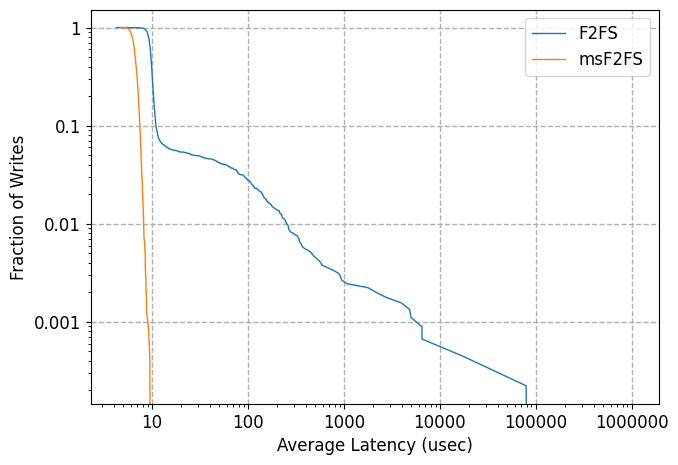
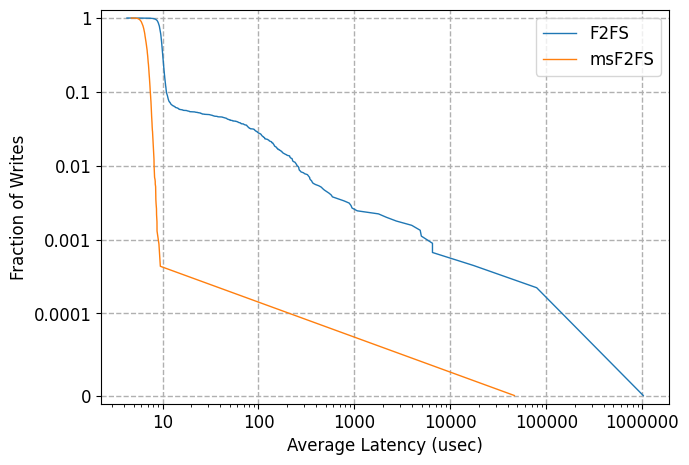
Fix reverse CDF latency figures

diff --git a/gc-concurrent/plot.py b/gc-concurrent/plot.py
@@ -1,5 +1,6 @@
 #!/usr/bin/env python3
 
+import matplotlib
 import matplotlib.pyplot as plt
 import numpy as np
 import matplotlib.ticker as ticker
@@ -362,15 +363,18 @@ def plot_reverse_cdf():
     ax.errorbar(x_f2fs, rcdf_f2fs, label="F2FS", fmt="-", linewidth=1)
     ax.errorbar(x_msf2fs, rcdf_msf2fs, label="msF2FS", fmt="-", linewidth=1)
     
+    plt.rcParams["figure.autolayout"] = True
     fig.tight_layout()
     ax.grid(which='major', linestyle='dashed', linewidth='1')
     ax.set_axisbelow(True)
-    plt.yscale("log")
+    # plt.yscale("log")
+    plt.yscale('symlog', linthresh=1e-4)
     plt.xscale("log")
-    ax.yaxis.set_major_formatter(ticker.FuncFormatter(lambda y,pos: ('{{:.{:1d}f}}'.format(int(np.maximum(-np.log10(y),0)))).format(y)))
+    ax.set_yticks([1, 0.1, 0.01, 0.001, 0.0001 , 0])
+    ax.set_yticklabels([1, 0.1, 0.01, 0.001, 0.0001, 0])
+    ax.set_ylim(-0.00001, 1.3)
+    # ax.yaxis.set_major_formatter(ticker.FuncFormatter(lambda y,pos: ('{{:.{:1d}f}}'.format(int(np.maximum(-np.log10(y),0)))).format(y)))
     ax.xaxis.set_major_formatter(ticker.FuncFormatter(lambda x,pos: ('{{:.{:1d}f}}'.format(int(np.maximum(-np.log10(x),0)))).format(x)))
-    # ax.set_ylim(0.000001, 1)
-    # ax.set_xlim(0.000001)
     ax.legend(loc='upper right')
     ax.set_ylabel("Fraction of Writes")
     ax.set_xlabel("Average Latency (usec)")

diff --git a/gc/plot.py b/gc/plot.py
@@ -259,10 +259,16 @@ def plot_reverse_cdf():
     fig.tight_layout()
     ax.grid(which='major', linestyle='dashed', linewidth='1')
     ax.set_axisbelow(True)
-    plt.yscale("log")
+    # plt.yscale("log")
     plt.xscale("log")
-    ax.yaxis.set_major_formatter(ticker.FuncFormatter(lambda y,pos: ('{{:.{:1d}f}}'.format(int(np.maximum(-np.log10(y),0)))).format(y)))
-    ax.xaxis.set_major_formatter(ticker.FuncFormatter(lambda x,pos: ('{{:.{:1d}f}}'.format(int(np.maximum(-np.log10(x),0)))).format(x)))
+    plt.yscale('symlog', linthresh=1e-4)
+    ax.set_yticks([1, 0.1, 0.01, 0.001, 0.0001 , 0])
+    ax.set_yticklabels([1, 0.1, 0.01, 0.001, 0.0001, 0])
+    ax.set_ylim(-0.00001, 1.3)
+    ax.set_xticks([10, 100])
+    ax.set_xticklabels([10, 100])
+    # ax.yaxis.set_major_formatter(ticker.FuncFormatter(lambda y,pos: ('{{:.{:1d}f}}'.format(int(np.maximum(-np.log10(y),0)))).format(y)))
+    # ax.xaxis.set_major_formatter(ticker.FuncFormatter(lambda x,pos: ('{{:.{:1d}f}}'.format(int(np.maximum(-np.log10(x),0)))).format(x)))
     # ax.set_ylim(0.000001, 1)
     # ax.set_xlim(0.000001)
     ax.legend(loc='upper right')

diff --git a/Readme.md b/Readme.md
@@ -17,7 +17,7 @@ Benchmarking Software (other version may also work):
 - fio (version 3.32, git commit: `6b6f52b`)
 - nvme-cli tools (version 2.2.1, git commit: `b7ac8e4`)
 - f2fs-tools (version 1.15.0)
-- RocksDB and db\_bench (version 7.3, git commit: `01fdec2`) from our build with msF2FS hints (available [here](https://github.com/nicktehrany/rocksdb)) - checkout respective branch for the 
+- RocksDB and db\_bench (version 7.3, git commit: `01fdec2`) from our build with msF2FS hints (available [here](https://github.com/nicktehrany/rocksdb)) - checkout respective branch for the different hint integrations
 - ZenFS (version `on master-branch`, git commit: `b04ca0c`)
 - bpftrace (version 0.16, git commit: `ed06d87`)
 - FEMU (version 7.0.0, git commit `ad786ad`)
@@ -67,7 +67,7 @@ We detail the setup used during our evaluation.
     - number of zones: 3,688
     - Max. active zones: 14
 
-**Note,** all benchmarks are setup to match the size requirements of the ZNS device we use. For the file systems it always creates a 19GiB `nullblk` device to store metadata, as this is the minimum size required. If a smaller device is used, simply align the size of the `nullblk` device in each of the scripts inside a function call for creating the device, replace the following (the last number `19456`) to match your setup:
+**Note,** all benchmarks are setup to match the size requirements of the ZNS device we use. For the file systems it always creates a 19GiB `nullblk` device to store metadata, as this is the minimum size required. If a smaller device is used, simply align the size of the `nullblk` device in each of the scripts inside a function call for creating the device, replace the following (the last number `19456` in MiB) to match your setup:
 
 ```bash
 DEV=$(sudo ../nullblk_create 512 19456) 
